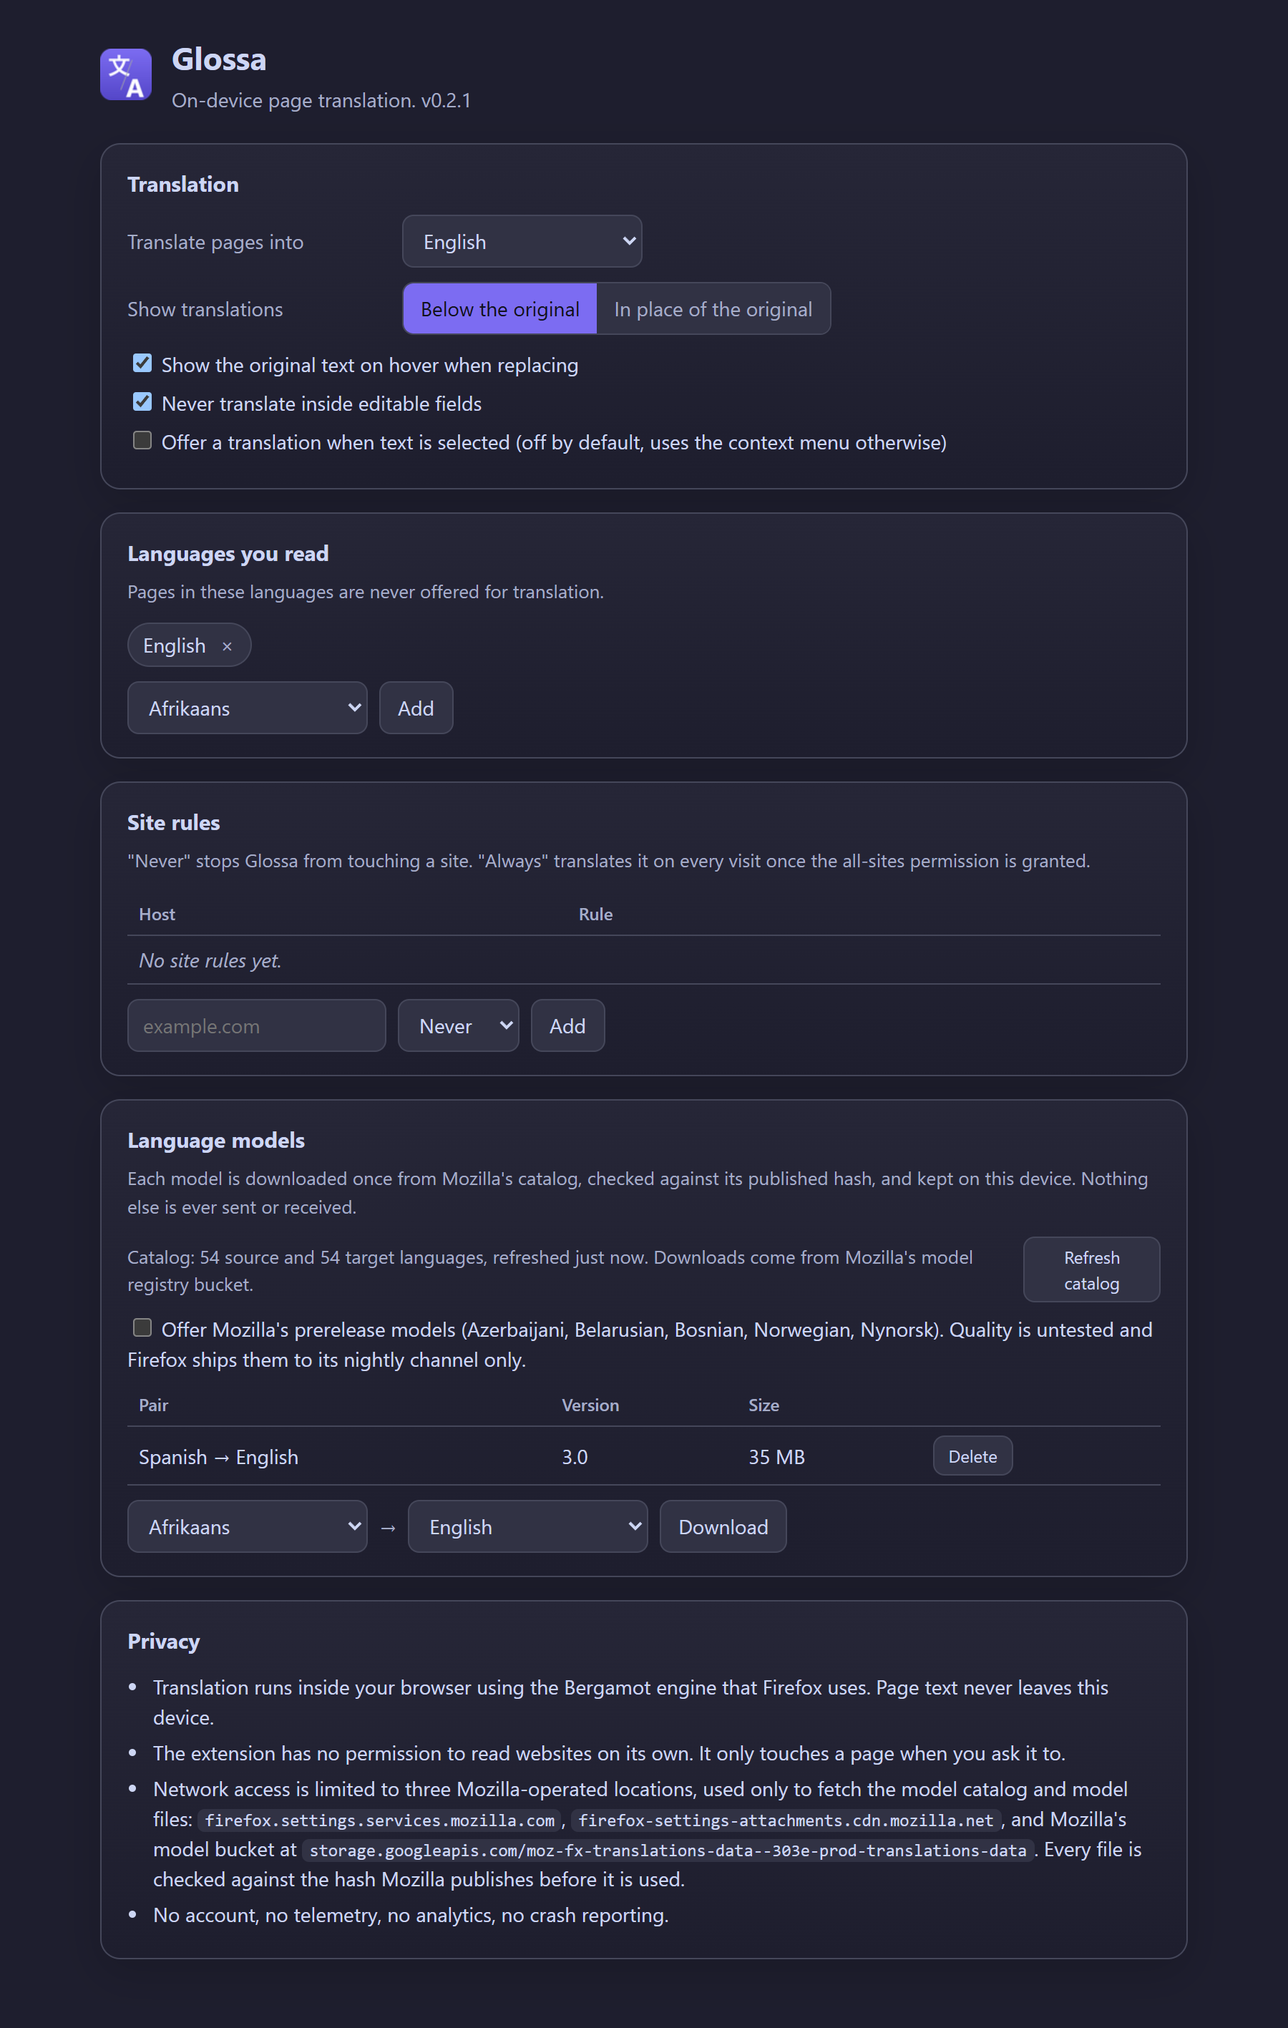
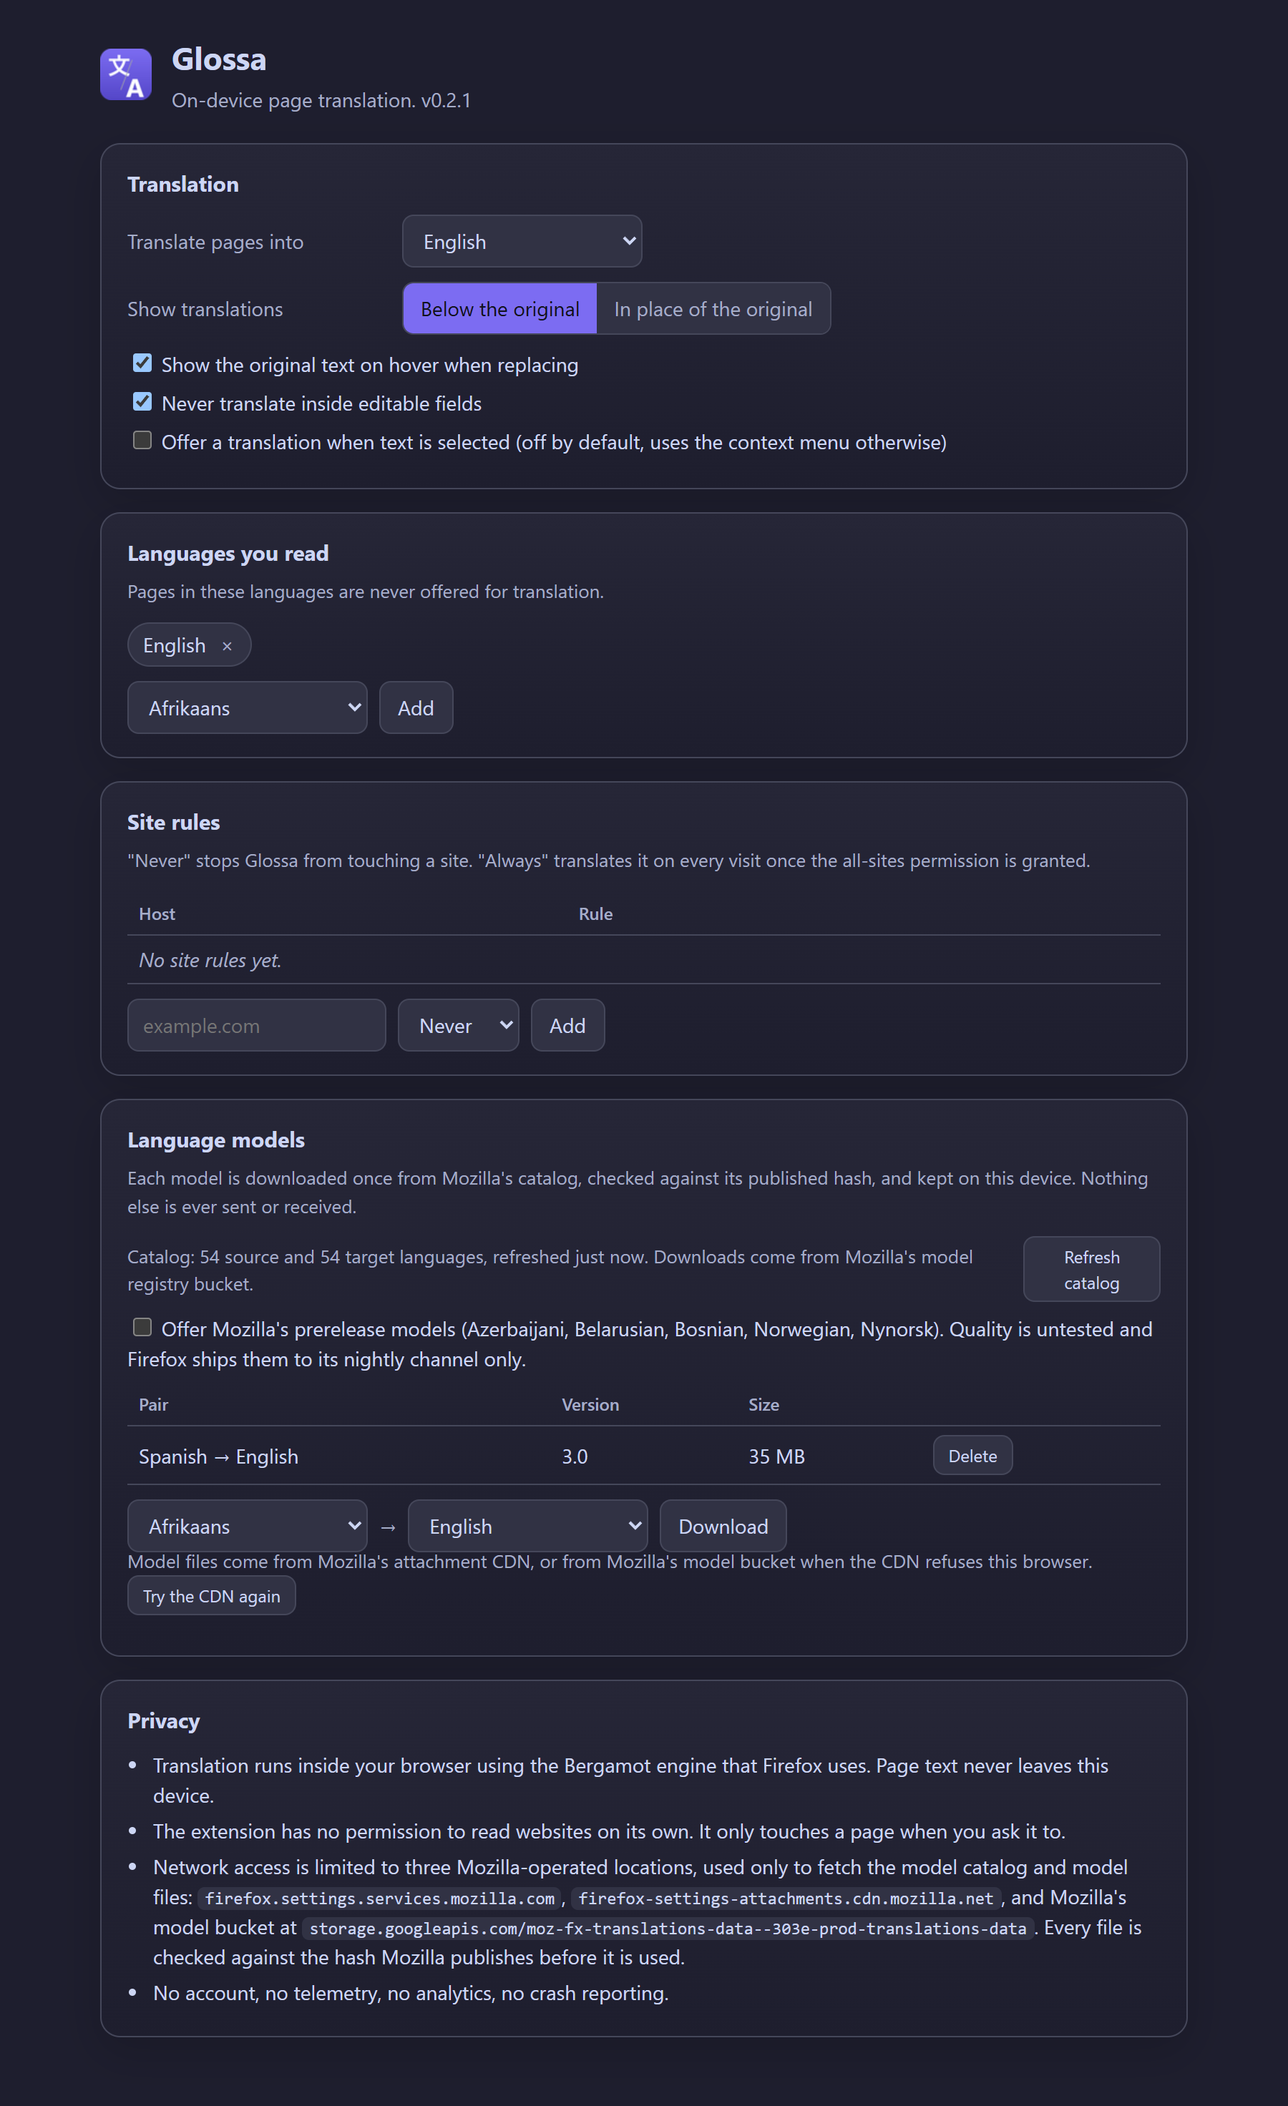
feat(a11y): label translations by language and direction, and clear the axe run

Changed region(s): [[0.0933, 0.0311, 0.9022, 0.7763], [0.0933, 0.8073, 0.8711, 0.9626], [0.2489, 0.3416, 0.28, 0.3726]]

diff --git a/src/content/renderer.ts b/src/content/renderer.ts
@@ -10,6 +10,7 @@ import {
   type Hold,
   type Segment
 } from "./segmenter.ts";
+import { isRtlLanguage } from "../shared/languages.ts";
 import type { DisplayMode } from "../shared/settings.ts";
 
 // Applies translated fragments back to the page and remembers enough to undo it without a reload.
@@ -32,9 +33,10 @@ interface ElementRecord {
   reused: Array<{ element: Element; children: Node[] }>;
   addedTitle: boolean;
   previousTitle: string | null;
-  // A page that labels its own elements keeps its attribute through translate and restore, so the
-  // value we found is put back rather than removed.
+  // A page that labels its own elements keeps its attributes through translate and restore, so the
+  // values we found are put back rather than removed.
   previousLang: string | null;
+  previousDir: string | null;
   appended: Element | null;
 }
 
@@ -132,11 +134,12 @@ export class Renderer {
     if (bilingual) {
       const block = document.createElement(TRANSLATION_TAG.toLowerCase());
       block.className = TRANSLATION_CLASS;
-      block.setAttribute("lang", options.targetLanguage);
+      labelLanguage(block, options.targetLanguage);
       block.append(...nodes);
       // The original stays where it is in this mode, so the translation is a copy and the page's
       // numbering has no meaning inside it.
       clearIds(block);
+      hideDuplicateFromScreenReaders(block);
       ensureShadowStyle(element);
       element.append(block);
       element.setAttribute(UNIT_ATTRIBUTE, "bilingual");
@@ -148,6 +151,7 @@ export class Renderer {
         addedTitle: false,
         previousTitle: null,
         previousLang: element.getAttribute("lang"),
+        previousDir: element.getAttribute("dir"),
         appended: block
       });
       return applied;
@@ -168,8 +172,19 @@ export class Renderer {
     }
     element.setAttribute(UNIT_ATTRIBUTE, "replaced");
     const previousLang = element.getAttribute("lang");
-    element.setAttribute("lang", options.targetLanguage);
-    this.records.push({ kind: "element", element, originalChildren, reused, addedTitle, previousTitle, previousLang, appended: null });
+    const previousDir = element.getAttribute("dir");
+    labelLanguage(element, options.targetLanguage);
+    this.records.push({
+      kind: "element",
+      element,
+      originalChildren,
+      reused,
+      addedTitle,
+      previousTitle,
+      previousLang,
+      previousDir,
+      appended: null
+    });
     return applied;
   }
 
@@ -181,8 +196,9 @@ export class Renderer {
     if (bilingual) {
       const inline = document.createElement(TRANSLATION_TAG.toLowerCase());
       inline.className = `${TRANSLATION_CLASS} glossa-inline`;
-      inline.setAttribute("lang", options.targetLanguage);
+      labelLanguage(inline, options.targetLanguage);
       inline.textContent = translated;
+      hideDuplicateFromScreenReaders(inline);
       ensureShadowStyle(node);
       node.after(inline);
       this.records.push({ kind: "text", node, originalData: node.data, appended: inline });
@@ -212,6 +228,8 @@ export class Renderer {
         // for translation again.
         if (record.previousLang === null) record.element.removeAttribute("lang");
         else record.element.setAttribute("lang", record.previousLang);
+        if (record.previousDir === null) record.element.removeAttribute("dir");
+        else record.element.setAttribute("dir", record.previousDir);
       }
       this.records.splice(index, 1);
       dropped = true;
@@ -248,6 +266,8 @@ export class Renderer {
       element.removeAttribute(UNIT_ATTRIBUTE);
       if (record.previousLang === null) element.removeAttribute("lang");
       else element.setAttribute("lang", record.previousLang);
+      if (record.previousDir === null) element.removeAttribute("dir");
+      else element.setAttribute("dir", record.previousDir);
       restored++;
     }
     this.records.length = 0;
@@ -305,6 +325,23 @@ function mergeLiveElements(
   };
   visit(fragment);
   return { nodes: Array.from(fragment.childNodes), reused };
+}
+
+// Two languages in one document have to be distinguishable to anything reading it, which is what
+// WCAG 3.1.2 asks for, and a right-to-left translation inside a left-to-right page needs to say so
+// or its punctuation lands at the wrong end.
+function labelLanguage(element: Element, language: string): void {
+  element.setAttribute("lang", language);
+  element.setAttribute("dir", isRtlLanguage(language) ? "rtl" : "ltr");
+}
+
+// In bilingual mode the page says everything twice, and a screen reader reads it twice. The added
+// copy is the one to take out of the accessibility tree, but only when it holds nothing focusable:
+// aria-hidden does not remove anything from the tab order, so hiding a block with a link in it
+// leaves a focusable element that announces as nothing at all.
+function hideDuplicateFromScreenReaders(block: Element): void {
+  const focusable = block.querySelector("a[href], button, input, select, textarea, [tabindex], [contenteditable]");
+  if (!focusable) block.setAttribute("aria-hidden", "true");
 }
 
 function wantsBilingual(element: Element, text: string): boolean {

diff --git a/src/options/options.html b/src/options/options.html
@@ -39,7 +39,7 @@
         <p class="hint">Pages in these languages are never offered for translation.</p>
         <div class="chips" id="never-chips"></div>
         <div class="inline-form">
-          <select id="never-add"></select>
+          <select id="never-add" aria-label="Language you read"></select>
           <button type="button" class="btn" id="never-add-btn">Add</button>
         </div>
       </section>
@@ -53,7 +53,7 @@
         </table>
         <div class="inline-form">
           <input type="text" id="rule-host" placeholder="example.com" />
-          <select id="rule-kind"><option value="never">Never</option><option value="always">Always</option></select>
+          <select id="rule-kind" aria-label="What to do on this site"><option value="never">Never</option><option value="always">Always</option></select>
           <button type="button" class="btn" id="rule-add">Add</button>
         </div>
       </section>
@@ -71,13 +71,15 @@
           <tbody></tbody>
         </table>
         <div class="inline-form">
-          <select id="install-from"></select>
+          <select id="install-from" aria-label="Download from language"></select>
           <span class="arrow">→</span>
-          <select id="install-to"></select>
+          <select id="install-to" aria-label="Download to language"></select>
           <button type="button" class="btn" id="install">Download</button>
         </div>
         <div class="progress" id="progress" hidden>
-          <div class="bar"><div class="fill" id="progress-fill"></div></div>
+          <div class="bar" id="progress-bar" role="progressbar" aria-valuemin="0" aria-valuemax="100" aria-labelledby="progress-text">
+            <div class="fill" id="progress-fill"></div>
+          </div>
           <div class="progress-text" id="progress-text"></div>
           <button type="button" class="btn small" id="cancel-download">Cancel download</button>
         </div>
@@ -98,7 +100,7 @@
       </section>
     </main>
 
-    <div class="toast" id="toast" hidden></div>
+    <div class="toast" id="toast" role="status" aria-live="polite" hidden></div>
     <script src="options.js"></script>
   </body>
 </html>

diff --git a/src/popup/popup.html b/src/popup/popup.html
@@ -8,11 +8,11 @@
   <body>
     <header class="top">
       <img class="logo" src="icons/icon-32.png" alt="" width="20" height="20" />
-      <span class="brand">Glossa</span>
+      <h1 class="brand">Glossa</h1>
       <span class="version" id="version"></span>
     </header>
 
-    <section class="card" id="page-card">
+    <main class="card" id="page-card">
       <div class="row">
         <span class="label">Page language</span>
         <select id="source" class="select" aria-label="Page language"></select>
@@ -22,8 +22,8 @@
         <select id="target" class="select" aria-label="Target language"></select>
       </div>
       <div class="row modes" role="group" aria-label="Display mode">
-        <button type="button" class="mode" data-mode="bilingual" id="mode-bilingual">Below original</button>
-        <button type="button" class="mode" data-mode="replace" id="mode-replace">Replace</button>
+        <button type="button" class="mode" data-mode="bilingual" id="mode-bilingual" aria-pressed="true">Below original</button>
+        <button type="button" class="mode" data-mode="replace" id="mode-replace" aria-pressed="false">Replace</button>
       </div>
       <div class="row grant" id="grant-row" hidden>
         <p class="grant-text" id="grant-text">Glossa needs permission to reach Mozilla's model hosts before it can download a language.</p>
@@ -31,11 +31,13 @@
       </div>
       <button type="button" class="primary" id="action" disabled>Checking page…</button>
       <div class="progress" id="progress" hidden>
-        <div class="bar"><div class="fill" id="progress-fill"></div></div>
+        <div class="bar" id="progress-bar" role="progressbar" aria-valuemin="0" aria-valuemax="100" aria-labelledby="progress-text">
+          <div class="fill" id="progress-fill"></div>
+        </div>
         <div class="progress-text" id="progress-text"></div>
       </div>
-      <p class="status" id="status"></p>
-    </section>
+      <p class="status" id="status" role="status" aria-live="polite"></p>
+    </main>
 
     <footer class="foot">
       <span class="privacy">Runs on this device. No page text leaves your browser.</span>

diff --git a/src/popup/popup.ts b/src/popup/popup.ts
@@ -23,6 +23,7 @@ const targetSelect = $<HTMLSelectElement>("target");
 const actionButton = $<HTMLButtonElement>("action");
 const statusLine = $<HTMLParagraphElement>("status");
 const progressBox = $<HTMLDivElement>("progress");
+const progressBar = $<HTMLDivElement>("progress-bar");
 const progressFill = $<HTMLDivElement>("progress-fill");
 const progressText = $<HTMLDivElement>("progress-text");
 const modeButtons = Array.from(document.querySelectorAll<HTMLButtonElement>(".mode"));
@@ -75,7 +76,9 @@ function fillLanguages(select: HTMLSelectElement, codes: string[], selected: str
 function setMode(mode: DisplayMode): void {
   displayMode = mode;
   for (const button of modeButtons) {
-    button.classList.toggle("active", button.dataset["mode"] === mode);
+    const active = button.dataset["mode"] === mode;
+    button.classList.toggle("active", active);
+    button.setAttribute("aria-pressed", String(active));
   }
 }
 
@@ -84,9 +87,12 @@ function showProgress(fraction: number | null, text: string): void {
   if (fraction === null) {
     progressFill.classList.add("indeterminate");
     progressFill.style.width = "";
+    progressBar.removeAttribute("aria-valuenow");
   } else {
+    const percent = Math.round(Math.max(0, Math.min(1, fraction)) * 100);
     progressFill.classList.remove("indeterminate");
-    progressFill.style.width = `${Math.round(Math.max(0, Math.min(1, fraction)) * 100)}%`;
+    progressFill.style.width = `${percent}%`;
+    progressBar.setAttribute("aria-valuenow", String(percent));
   }
   progressText.textContent = text;
 }

diff --git a/src/options/options.css b/src/options/options.css
@@ -8,6 +8,7 @@
   --muted: #a6adc8;
   --accent: #7c6cf2;
   --accent-2: #b4befe;
+  --on-accent: #11111b;
   --ok: #a6e3a1;
   --warn: #f9e2af;
   --error: #f38ba8;
@@ -31,6 +32,7 @@
     --muted: #5c5f77;
     --accent: #6a5ae0;
     --accent-2: #4c3fc7;
+    --on-accent: #ffffff;
     --ok: #2f8f4e;
     --warn: #a56a00;
     --error: #c23b5e;
@@ -132,7 +134,9 @@ select, input[type="text"] {
 
 .segmented button.active {
   background: var(--accent);
-  color: #11111b;
+  /* Dark ink on the dark theme's lighter accent, white on the light theme's deeper one. Either way
+     round the pair falls below 4.5:1, which is what an axe run reports. */
+  color: var(--on-accent);
 }
 
 .check {

diff --git a/src/options/options.ts b/src/options/options.ts
@@ -161,12 +161,16 @@ function showProgress(fraction: number | null, text: string): void {
   const box = $("progress");
   const fill = $("progress-fill");
   box.hidden = false;
+  const bar = $("progress-bar");
   if (fraction === null) {
     fill.classList.add("indeterminate");
     fill.style.width = "";
+    bar.removeAttribute("aria-valuenow");
   } else {
+    const percent = Math.round(Math.max(0, Math.min(1, fraction)) * 100);
     fill.classList.remove("indeterminate");
-    fill.style.width = `${Math.round(fraction * 100)}%`;
+    fill.style.width = `${percent}%`;
+    bar.setAttribute("aria-valuenow", String(percent));
   }
   $("progress-text").textContent = text;
 }

diff --git a/src/shared/languages.ts b/src/shared/languages.ts
@@ -62,6 +62,14 @@ const NAMES: Record<string, string> = {
   "zh-Hant": "Chinese (Traditional)"
 };
 
+// Languages in the catalog written right to left. A translation block that does not say so renders
+// its punctuation in the wrong place and reads wrongly to a screen reader (WCAG 1.3.1).
+const RTL = new Set(["ar", "fa", "he", "ur"]);
+
+export function isRtlLanguage(code: string): boolean {
+  return RTL.has(code.toLowerCase().split(/[-_]/)[0] ?? "");
+}
+
 export function languageName(code: string): string {
   return NAMES[code] ?? code;
 }

diff --git a/src/popup/popup.css b/src/popup/popup.css
@@ -58,6 +58,7 @@ body {
 }
 
 .brand {
+  margin: 0;
   font-weight: 650;
   font-size: 15px;
   letter-spacing: 0.01em;

diff --git a/ROADMAP.md b/ROADMAP.md
@@ -116,13 +116,6 @@ Added 2026-09-10 from the research pass in RESEARCH.md. Ids continue from G-17.
   Acceptance: on a 500-paragraph fixture the visible paragraphs are translated before any off-screen one and scrolling re-prioritises; a hidden tab issues no engine calls until shown.
   Complexity: L
 
-- [ ] P1 — G-30 — Accessibility of bilingual output
-  Why: two languages in one document must be programmatically distinguishable (WCAG 3.1.2); inserted blocks carry `lang` but not `dir`; duplicated links inside translation blocks read twice to screen readers; the popup status and progress are not announced.
-  Evidence: WCAG 3.1.2 and 1.3.1; Bugzilla 1901177 (Gecko a11y cache ignores `lang` changes, so also set `dir` and keep tags minimal), 1902352 (announce first result, not completion); NVDA subtag handling; `popup.html` progress bar has no `role`, mode buttons no `aria-pressed`.
-  Touches: src/content/renderer.ts (`dir` from the target language, walk to `li`/`td` ancestors like Firefox L3310; `aria-hidden` only on translation blocks with no focusable descendants), src/popup/popup.html and popup.ts (`role="progressbar"` with `aria-valuenow`, `aria-live="polite"` on the status line, `aria-pressed` on mode buttons), tests (axe run on popup and options)
-  Acceptance: an axe pass on popup and options reports no violations; every `glossa-translation` element has `lang` and `dir`; a screen-reader transcript of the fixture does not read link text twice.
-  Complexity: M
-
 - [ ] P1 — G-31 — Selection popover meets WCAG hover and target rules and never lands inside an editor
   Why: the popover cannot be dismissed with Esc, its close target is under 24 px, it can cover the selection it explains, and it is appended to the document root without checking editors.
   Evidence: WCAG 1.4.13, 2.5.8, 2.4.11; linguist #344 (focus stolen from the selection); simple-translate #342 (popup saved into TinyMCE content); `content.ts` `showPopover`.

diff --git a/CHANGELOG.md b/CHANGELOG.md
@@ -8,6 +8,7 @@ All notable changes to Glossa are recorded here. Dates are ISO (YYYY-MM-DD).
 - The engine lets go of its models after fifteen seconds of quiet, and on Chrome the hidden document that hosts it closes too, so an idle browser is not holding a few hundred megabytes.
 - A processor that cannot run the engine is reported plainly ("this computer's processor lacks the SIMD instructions the engine needs") before anything is downloaded, instead of failing with a stack trace.
 - A translation whose engine dies mid page is retried once on a fresh engine rather than ending the page.
+- Accessibility: every translation says which language and direction it is in, the popup and options pages announce their status and progress to a screen reader, and both pass an axe check with no violations. In bilingual mode the added copy is kept out of the accessibility tree where it holds nothing focusable, so a screen reader does not read every block twice.
 - Replace mode keeps the page's own links and buttons instead of rebuilding them, so anything the page had attached to them still works after a translation. Restoring puts each one's original text back.
 - Model downloads survive a bad connection: a dropped transfer picks up where it stopped instead of starting the whole file again, and a download can be cancelled from the options page. Two pages asking for the same language share one download, and a download that would not fit is refused before it starts with the numbers to explain why.
 - The options page can send downloads back to Mozilla's CDN after it has fallen back to the bucket.

diff --git a/README.md b/README.md
@@ -93,6 +93,8 @@ npm run build           # writes dist/chrome, dist/firefox, and one ZIP per targ
 
 `npm run verify` runs the typecheck, lint, unit tests, and build. `npm run smoke` builds a test variant with a loopback host permission and runs the headless Chromium test, which downloads the Spanish to English model and translates a fixture page through the real popup. `npm run smoke:firefox` does the same in the system Firefox through Selenium (`pip install selenium`; geckodriver is fetched automatically). `npm run screenshots` refreshes the images above the same way. If your firewall blocks outbound traffic per binary, point the smoke at a Chromium build it does allow with `GLOSSA_CHROMIUM_PATH`.
 
+`npm run smoke:a11y` runs axe against the popup, the options page and a translated page, and fails on any violation.
+
 `npm run bump 0.3.0` moves every version string and dates the changelog heading. `npm run release`
 builds the artifacts with their SHA-256 sidecars and a CRX; `npm run release:publish` also tags the
 commit and creates the GitHub release. The CRX signing key is generated into a gitignored
